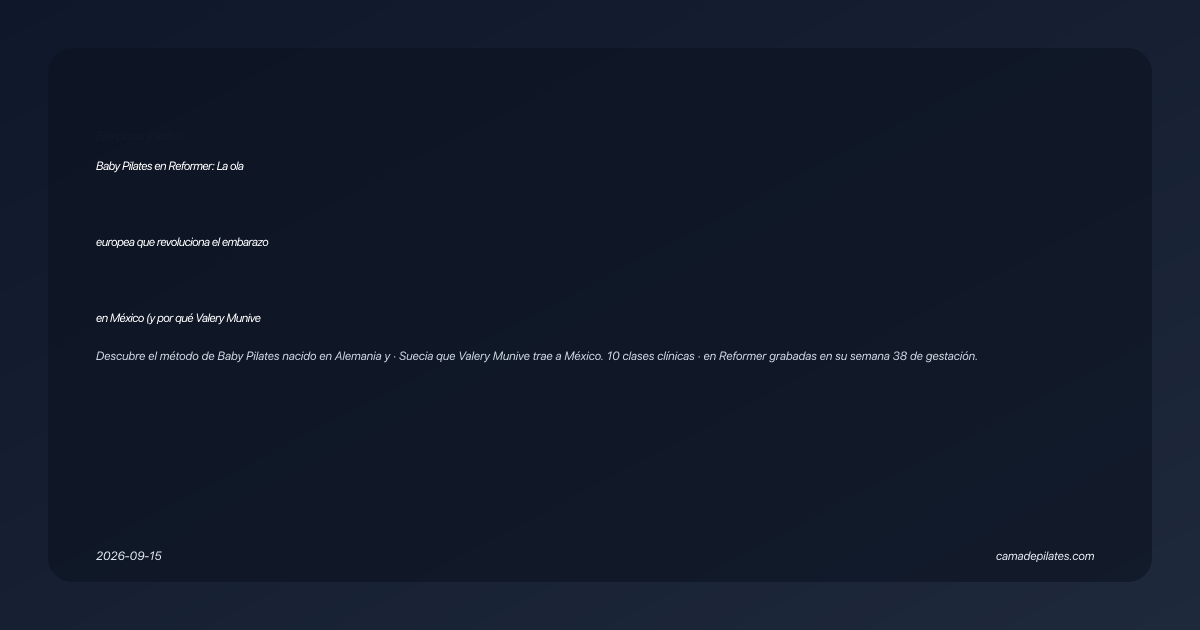
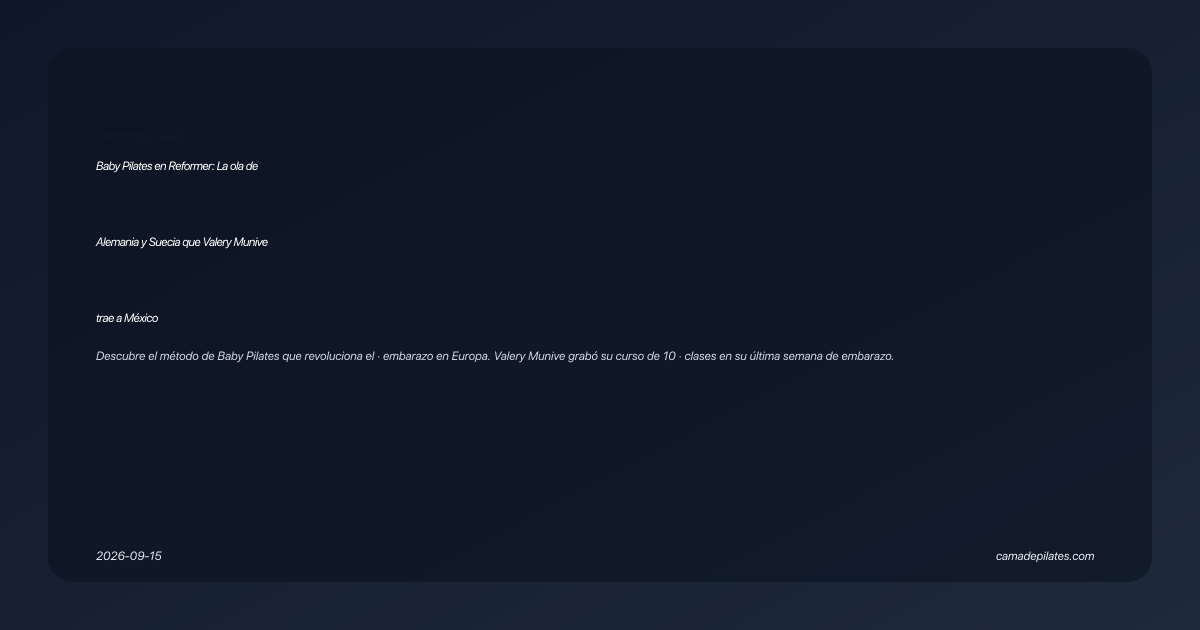
fix(blog): streamline Baby Pilates advertorial and calibrate Mexican market pricing
- Shorten advertorial copy for fast, high-converting reader engagement
- Calibrate Mexican market studio pricing based on actual rates (-/class, ,400-,000/packages)
- Frame  MXN one-time course investment as less than the cost of 2 studio drop-in classes
- Regenerate OG banner and static assets

🤖 Generated with [Claude Code](https://claude.com/claude-code)

Changed region(s): [[0.2467, 0.5429, 0.8017, 0.573], [0.0617, 0.4825, 0.2158, 0.5127], [0.0617, 0.3619, 0.2158, 0.3921]]

diff --git a/src/content/blog/baby-pilates-reformer-embarazo-mexico.md b/src/content/blog/baby-pilates-reformer-embarazo-mexico.md
@@ -1,6 +1,6 @@
 ---
-title: "Baby Pilates en Reformer: La ola europea que revoluciona el embarazo en México (y por qué Valery Munive lo practicó hasta la semana 38)"
-description: "Descubre el método de Baby Pilates nacido en Alemania y Suecia que Valery Munive trae a México. 10 clases clínicas en Reformer grabadas en su semana 38 de gestación."
+title: "Baby Pilates en Reformer: La ola de Alemania y Suecia que Valery Munive trae a México"
+description: "Descubre el método de Baby Pilates que revoluciona el embarazo en Europa. Valery Munive grabó su curso de 10 clases en su última semana de embarazo."
 category: "Ejercicios y salud"
 tags: ["baby pilates", "pilates prenatal", "reformer embarazo", "valery munive", "suelo pelvico", "curso pilates prenatal"]
 publishDate: "2026-09-15"
@@ -10,169 +10,127 @@ featured: true
 heroImage: "/images/blog/baby-pilates-reformer/hero-studio-berlin.webp"
 ---
 
-# Baby Pilates en Reformer: La ola europea que revoluciona el embarazo en México (y por qué Valery Munive lo practicó hasta la semana 38)
+# Baby Pilates en Reformer: La ola de Alemania y Suecia que Valery Munive trae a México
 
-> **Nota editorial de salud:** Este contenido es estrictamente informativo, clínico y vivencial. Cada embarazo es un proceso biológico único. Antes de iniciar cualquier práctica deportiva o programa de movimiento, consulta a tu médico ginecólogo u obstetra de cabecera.
+> **Nota:** Contenido informativo. Consulta siempre con tu ginecólogo antes de iniciar cualquier programa de ejercicio durante el embarazo.
 
-Durante décadas, a las mujeres embarazadas en México y Latinoamérica se les ha repetido la misma advertencia: *"No cargues nada, no te esfuerces, quédate en reposo absoluto y ten mucho cuidado"*. 
+En México, el consejo habitual para las mujeres embarazadas sigue siendo el mismo de hace cincuenta años: *«no te muevas, no cargues nada y quédate en reposo»*.
 
-Sin embargo, en las capitales del bienestar de Europa del Norte —particularmente en **Alemania y Suecia**— el paradigma de la maternidad dio un giro radical hace varios años. En ciudades como Berlín, Múnich y Estocolmo, el embarazo no es tratado como una enfermedad o una etapa de fragilidad pasiva, sino como un acontecimiento fisiológico de alta exigencia atlética. Allí nació lo que hoy se conoce como la revolución del **Baby Pilates & Pilates Prenatal en Reformer**.
+Pero en países como **Alemania y Suecia**, la historia es completamente diferente. 
 
-Hoy, esa metodología de vanguardia llega formalmente a México de la mano de **Valery Munive** (reconocida formadora y Master Trainer de Pilates en México), quien no solo adoptó el método tras vivirlo en carne propia en Alemania, sino que decidió romper todo escepticismo nacional con un acto sin precedentes: **grabar un programa clínico completo de 10 clases en video montada en el Reformer durante su semana 38 de embarazo**, a escasos días de dar a luz.
+Allí, las futuras madres no suspenden su actividad: asisten a estudios especializados en una tendencia en auge llamada **Baby Pilates & Pilates Prenatal en Reformer**. En lugar de reposo pasivo, utilizan la cama de Pilates para descomprimir la columna, activar el suelo pélvico y preparar el cuerpo para el parto con resortes que sostienen el peso del vientre.
 
-Esta es la historia de cómo una experiencia en Europa transformó su visión de la maternidad, por qué el Reformer es la herramienta más segura para proteger tu columna y tu suelo pélvico, y cómo tú también puedes acceder a este acompañamiento clínico desde hoy.
+La instructora mexicana **Valery Munive** vivió esta experiencia de primera mano mientras estaba embarazada en Alemania. Quedó tan sorprendida con los resultados que decidió traer la metodología a México y crear un curso único: **grabado en sus últimas semanas de embarazo**, demostrando frente a la cámara que mantenerse activa y fuerte en el Reformer es completamente posible y beneficioso.
+
+![Estudio de Pilates Reformer con luz natural en Alemania](/images/blog/baby-pilates-reformer/hero-studio-berlin.webp)
+*En Alemania y Suecia, el Reformer es el aliado principal de las futuras madres para eliminar dolores lumbares y preparar el parto.*
 
 ---
 
-## De Berlín a Ciudad de México: El choque cultural que lo cambió todo
+## El descubrimiento en Alemania: Moverse sin dolor
 
-Cuando Valery Munive se enteró de su embarazo, se encontraba en Alemania. Con años de trayectoria certificando a cientos de instructoras de Pilates y conociendo al milímetro la biomecánica corporal, su primera reacción instintiva al ver el panorama prenatal en el norte de Europa fue de genuina curiosidad.
+Como instructora certificada de Pilates con años de experiencia en México, Valery conocía a la perfección la biomecánica corporal. Sin embargo, al quedar embarazada en Alemania, sintió las dudas que cualquier mujer experimenta: *¿es seguro seguir entrenando?*
 
-En Alemania, las matronas certificadas (*Hebammen*) y los ginecólogos no envían a las futuras madres a permanecer sentadas en un sillón durante nueve meses. Por el contrario, prescriben programas especializados de preparación física para el parto (*Geburtsvorbereitung mit Pilates*) y fortalecimiento del suelo pélvico (*Beckenbodentraining*).
+*"En Berlín veía a mujeres en su séptimo y octavo mes sobre el Reformer con una fluidez y tranquilidad asombrosas"*, cuenta Valery. *"Decidí probarlo en mi propio embarazo. La sensación fue inmediata: al acostarme y sentir la asistencia de los resortes, toda la presión en mi espalda baja desapareció. Me sentía ligera, estable y llena de energía"*.
 
-![Estudio boutique de Pilates Reformer en Alemania con luz natural y diseño escandinavo](/images/blog/baby-pilates-reformer/hero-studio-berlin.webp)
-*Los estudios boutique en Alemania y Suecia integran el Reformer desgravitado como la herramienta predilecta para la preparación física y emocional de la mujer gestante.*
+Al volver a México, el contraste fue evidente. Mientras en Europa los médicos y matronas recomiendan el Reformer para evitar la diástasis y la ciática, en México muchas mujeres terminan los nueve meses con dolor lumbar constante y miedo a moverse.
 
-*"Al principio, incluso como instructora, sentí una pizca de reserva"* —recuerda Valery—. *"Veía a mujeres con vientres de 7 y 8 meses deslizarse con total elegancia, fuerza y serenidad sobre camas Reformer. Decidí probarlo yo misma durante mi gestación. La sensación fue indescriptible: en el instante en que mis pies tocaron la barra y los resortes sostuvieron mi peso, sentí cómo toda la compresión de mis vértebras lumbares simplemente desaparecía. No había pesadez, no había dolor ciático, no había hinchazón en los tobillos. Me sentía ligera, conectada con mi bebé y profundamente poderosa"*.
-
-Al regresar a México, el contraste cultural fue doloroso. Familiares, conocidos e incluso algunos profesionales de la salud le sugerían guardar reposo continuo:
-
-> *"La gente en México me decía con angustia: '¡Valery, bájate de esa máquina!', '¿Cómo vas a moverte así estando embarazada?', 'Te vas a lastimar o vas a lastimar al bebé'. Me di cuenta de que existe un vacío de información tremendo en nuestro país. Las mamás mexicanas sufren dolores de espalda insoportables, diástasis de rectos y debilidad de piso pélvico porque nadie les ha enseñado a moverse con biomecánica de precisión."*
-
-Fue en ese momento cuando Valery tomó una decisión rotunda: **esta metodología europea tenía que estar al alcance de cualquier mujer en México**.
+Valery supo que debía cambiar esa narrativa.
 
 <see-also limit="3" />
 
 ---
 
-## Por qué el tapete de piso ya no es suficiente: La ciencia biomecánica del Reformer
+## La prueba en video: Grabando en la última semana de embarazo
 
-Muchas mujeres se preguntan: *¿Por qué hacer Pilates en una cama Reformer en lugar de hacerlo en un tapete de yoga o en el piso?*
+Para demostrar que el método es seguro y accesible, Valery no se limitó a dar consejos teóricos. **Se subió al Reformer en la última semana de su embarazo (Semana 38)** y grabó frente a la cámara las 10 clases prácticas del programa.
 
-La respuesta reside en la física y en las leyes del cambio de masa corporal durante los tres trimestres:
-
-1. **El desplazamiento del centro de gravedad:** A medida que el bebé crece, el peso anterior tira de la pelvis hacia adelante (anteversión pélvica e hiperlordosis). En el piso, los músculos de la espalda baja se ven forzados a cargar toda esa tensión contra la gravedad terrestre pura.
-2. **Los resortes como "segunda musculatura":** En la cama Reformer, los resortes de resistencia progresiva actúan como un soporte elástico externo. En lugar de luchar contra la gravedad, el carro móvil asiste el movimiento, desgravitando la articulación sacroilíaca y las rodillas.
-3. **Erradicación del Síndrome de Compresión de la Vena Cava:** Después de la semana 16 a 20 de gestación, acostarse boca arriba en un piso plano puede comprimir la vena cava inferior debido al peso uterino, provocando mareos, hipotensión y disminución del flujo de oxígeno maternofetal. En el Reformer, gracias al uso del *Box* y las cuñas posturales a 30° y 45°, la mamá trabaja en ángulos elevados con absoluta seguridad cardiovascular.
-4. **Activación del transverso abdominal sin diástasis:** Los tradicionales abdominales de piso flexionan la columna y empujan las vísceras hacia afuera, desgarrando la línea alba. En el Reformer, el trabajo con correas activa el transverso profundo como un corsé biológico natural, protegiendo los rectos abdominales de separaciones patológicas.
-
----
-
-## La prueba definitiva: Grabar en la Semana 38 de embarazo
-
-Las palabras convencen, pero el testimonio visual arrastra. Valery sabía que para derribar los mitos arraigados en la sociedad mexicana no bastaba con escribir un artículo o dar una plática teórica. Tenía que demostrarlo donde importa: **frente a la cámara, en su propio cuerpo, a término**.
-
-Por eso, en su **semana 38 de gestación** —un momento en el que la mayoría de las mujeres apenas pueden atarse las agujetas de los zapatos—, Valery ingresó al estudio y grabó de principio a fin las 10 clases clínicas en video que integran el curso.
-
-<div style="display: grid; grid-template-columns: repeat(auto-fit, minmax(280px, 1fr)); gap: 1.5rem; margin: 2rem 0;">
-  <div style="background: #FAF8F5; border: 1px solid rgba(42,38,36,0.1); border-radius: 4px; overflow: hidden; padding: 1rem; text-align: center;">
-    <img src="/images/blog/baby-pilates-reformer/valery-munive-reformer-embarazo-1.webp" alt="Valery Munive en extensión de cadera en Reformer en su semana 38 de embarazo" style="width: 100%; height: auto; border-radius: 2px; object-fit: cover; max-height: 480px;" />
-    <p style="font-size: 0.85rem; color: #5D5550; margin-top: 0.75rem; font-style: italic; line-height: 1.4;">
-      <strong>Semana 38: Estabilidad y apertura pélvica.</strong> Valery demuestra cómo la resistencia elástica del Reformer permite elongar los flexores de la cadera y descomprimir el sacro sin generar presión abdominal ni fatiga innecesaria.
+<div style="display: grid; grid-template-columns: repeat(auto-fit, minmax(260px, 1fr)); gap: 1.25rem; margin: 2rem 0;">
+  <div style="background: #FAF8F5; border: 1px solid rgba(42,38,36,0.1); border-radius: 6px; padding: 0.75rem; text-align: center;">
+    <img src="/images/blog/baby-pilates-reformer/valery-munive-reformer-embarazo-1.webp" alt="Valery Munive en extensión de cadera en Reformer en su semana 38 de embarazo" style="width: 100%; height: auto; border-radius: 4px; object-fit: cover;" />
+    <p style="font-size: 0.85rem; color: #5D5550; margin-top: 0.6rem; font-style: italic;">
+      <strong>Semana 38:</strong> Apertura de cadera y alivio lumbar con asistencia de resortes, sin impacto articular.
     </p>
   </div>
-  <div style="background: #FAF8F5; border: 1px solid rgba(42,38,36,0.1); border-radius: 4px; overflow: hidden; padding: 1rem; text-align: center;">
-    <img src="/images/blog/baby-pilates-reformer/valery-munive-reformer-semana-38.webp" alt="Valery Munive sonriendo en el Reformer durante su embarazo en México" style="width: 100%; height: auto; border-radius: 2px; object-fit: cover; max-height: 480px;" />
-    <p style="font-size: 0.85rem; color: #5D5550; margin-top: 0.75rem; font-style: italic; line-height: 1.4;">
-      <strong>Conexión madre-bebé y alineación.</strong> En la fase final del tercer trimestre, el trabajo de respiración diafragmática y postura sentada prepara el canal de parto y mantiene la vitalidad y la serenidad mental.
+  <div style="background: #FAF8F5; border: 1px solid rgba(42,38,36,0.1); border-radius: 6px; padding: 0.75rem; text-align: center;">
+    <img src="/images/blog/baby-pilates-reformer/valery-munive-reformer-semana-38.webp" alt="Valery Munive en el Reformer durante su embarazo en México" style="width: 100%; height: auto; border-radius: 4px; object-fit: cover;" />
+    <p style="font-size: 0.85rem; color: #5D5550; margin-top: 0.6rem; font-style: italic;">
+      <strong>Conexión y respiración:</strong> Postura erguida y respiración diafragmática para preparar el canal de parto.
     </p>
   </div>
 </div>
 
-*"Quería que cualquier mujer embarazada que viera este curso pensara: 'Si ella puede moverse con esa calma, esa fuerza y esa sonrisa en su semana 38, yo puedo hacerlo en mi semana 15, 24 o 32'. El movimiento guiado no pone en riesgo a tu bebé; le da oxígeno, espacio y a ti te devuelve el control de tu cuerpo"* —afirma Valery.
+*"Quería que cualquier mujer embarazada pudiera ver que si yo podía moverme con calma y seguridad en mi última semana de gestación, ella también puede hacerlo en cualquier etapa de su embarazo con las adaptaciones correctas"*, explica.
+
+### ¿Por qué el Reformer supera al piso para embarazadas?
+- **Soporte desgravitado:** Los resortes cargan parte de tu peso, quitando tensión de la pelvis y las rodillas.
+- **Sin posiciones peligrosas:** Con el *Box* y respaldos inclinados, se evita la posición boca arriba plana que puede comprimir la vena cava tras el primer trimestre.
+- **Piso pélvico fuerte:** Ejercicios específicos para tonificar los músculos del parto y prevenir incontinencia o desgarros.
 
 ---
 
-## ¿Qué incluye el curso BABY PILATES EL CLUB MATERNO?
+## Curso Online: BABY PILATES EL CLUB MATERNO
 
-El curso digital está alojado en el campus virtual de alta fidelidad **Whop**, diseñado para que lo reproduzcas desde cualquier dispositivo: tu teléfono móvil, tu tablet frente al Reformer, o la pantalla de tu sala.
+El curso reúne **10 clases en video HD** con progresiones trimestrales, explicaciones paso a paso y adaptaciones para cada etapa del embarazo:
 
-El programa está compuesto por **10 clases completas en video en alta definición**, guiadas paso a paso con indicaciones anatómicas precisas, adaptaciones para cada trimestre y modificaciones en caso de sensibilidad pélvica:
-
-| Clase | Módulo & Enfoque Clínico | Objetivo Principal |
-| :--- | :--- | :--- |
-| **Clase 1** | **Conexión Inicial y Descompresión Lumbar** | Liberación de presión en vértebras L4-S1 y reprogramación postural. |
-| **Clase 2** | **Suelo Pélvico Consciente (Método Nórdico)** | Activación y relajación del esfínter pélvico para prevenir incontinencia y desgarros. |
-| **Clase 3** | **Movilidad Sacroilíaca y Apertura de Caderas** | Alivio del dolor ciático y preparación de los ligamentos de la pelvis. |
-| **Clase 4** | **Fuerza Segura del Core (Sin Diástasis)** | Fortalecimiento del transverso abdominal mediante el Box y cuñas inclinadas. |
-| **Clase 5** | **Estabilidad Escapular y Brazos Fuertes** | Acondicionamiento de hombros y parte superior para la lactancia y el porteo. |
-| **Clase 6** | **Piernas Ligeras y Glúteos sin Impacto** | Activación del retorno venoso para evitar várices, calambres y tobillos hinchados. |
-| **Clase 7** | **Biomecánica de Respiración para el Parto** | Dominio del diafragma y exhalación tónica para la fase de dilatación y expulsivo. |
-| **Clase 8** | **Rutina Exclusiva para el Tercer Trimestre** | Secuencias suaves adaptadas para semanas 28 a 38 con máxima comodidad. |
-| **Clase 9** | **Drenaje Linfático y Liberación de Tensión** | Movilidad asistida con correas para descargar el peso acumulado del día. |
-| **Clase 10** | **Vinculación Emocional Madre-Bebé en Reformer** | Sesión meditativa somática para conectar profundamente con el latido de tu hijo. |
-
-Además de las 10 clases, obtienes acceso permanente al canal de consultas de la comunidad de **Edelweiss Pilates**, donde podrás resolver dudas sobre resortes, accesorios y posturas.
+1. **Descompresión lumbar y postura:** Libera la carga en la espalda baja.
+2. **Suelo pélvico consciente:** El método nórdico para conectar sin pujar.
+3. **Apertura de caderas:** Alivio de ciática y flexibilidad pélvica.
+4. **Core seguro en cuña:** Trabajo del transverso abdominal sin riesgo de diástasis.
+5. **Espalda y brazos:** Fuerza superior para cargar a tu bebé sin fatiga.
+6. **Piernas ligeras:** Activación circulatoria contra calambres y retención de líquidos.
+7. **Respiración para el parto:** Manejo del diafragma para el día del nacimiento.
+8. **Especial tercer trimestre:** Movimientos suaves para semanas avanzadas.
+9. **Drenaje linfático en carro:** Descongestión de pies cansados.
+10. **Conexión somática:** Sesión guiada de vinculación madre-bebé.
 
 ---
 
-## La inversión más accesible para tu maternidad: Solo $600 MXN
+## Menos de lo que cuestan 2 clases en un estudio
 
-En México, una sola sesión privada de Pilates prenatal en zonas como Polanco (CDMX), San Pedro Garza García (Monterrey) o Providencia (Guadalajara) tiene un costo habitual de entre **$800 y $1,200 MXN por hora**.
+En México, una sola clase grupal de Pilates en estudio cuesta entre **$330 y $400 MXN**, y un paquete mensual de 4 a 8 sesiones ronda entre **$1,400 y $3,000 MXN**. Además, muchos estudios ni siquiera aceptan mujeres embarazadas en sus grupos habituales por falta de certificación prenatal.
 
-El objetivo de Valery Munive y CAMA Pilates al democratizar esta metodología europea fue derribar la barrera económica:
+Por solo **$600 MXN (pago único)**, obtienes el curso completo de 10 clases con acceso ilimitado para siempre en el campus virtual **Whop**, para entrenar a tu propio ritmo desde tu celular, tablet o computadora.
 
-- **10 clases completas en video** diseñadas y ejecutadas por una Master Trainer internacional.
-- **Acceso vitalicio:** Las puedes repetir cuantas veces quieras durante este embarazo y en futuros embarazos.
-- **Sin membresías forzosas ni mensualidades recurrentes.**
-- **Precio total:** **$600 MXN (Pago único)**.
-
-<div style="background: linear-gradient(135deg, #FAF8F5 0%, #F3EFEA 100%); border: 1px solid rgba(42,38,36,0.15); border-radius: 8px; padding: 2.5rem; text-align: center; margin: 3rem 0; box-shadow: 0 4px 20px rgba(0,0,0,0.04);">
-  <span style="display: inline-block; background: #3E2723; color: #FFFFFF; font-size: 0.75rem; text-transform: uppercase; letter-spacing: 0.15em; font-weight: 600; padding: 0.35rem 1rem; border-radius: 50px; margin-bottom: 1rem;">
-    Programa Oficial Whop · Acceso Inmediato
+<div style="background: #FAF8F5; border: 1px solid rgba(42,38,36,0.15); border-radius: 8px; padding: 2rem; text-align: center; margin: 2.5rem 0;">
+  <span style="display: inline-block; background: #2A2624; color: #FFFFFF; font-size: 0.75rem; text-transform: uppercase; letter-spacing: 0.12em; font-weight: 600; padding: 0.3rem 0.85rem; border-radius: 50px; margin-bottom: 0.75rem;">
+    Acceso Inmediato en Whop
   </span>
-  <h3 style="font-family: Georgia, serif; font-style: italic; font-size: 2rem; color: #2A2624; margin-bottom: 0.75rem;">
+  <h3 style="font-family: Georgia, serif; font-style: italic; font-size: 1.75rem; color: #2A2624; margin-bottom: 0.5rem;">
     BABY PILATES EL CLUB MATERNO
   </h3>
-  <p style="color: #5D5550; max-width: 550px; margin: 0 auto 1.5rem; font-size: 1.05rem; line-height: 1.6;">
-    Aprende el método europeo guiado por Valery Munive en su semana 38 de gestación. 10 clases clínicas para proteger tu espalda, fortalecer tu suelo pélvico y llegar al parto con confianza.
+  <p style="color: #5D5550; max-width: 480px; margin: 0 auto 1.25rem; font-size: 0.95rem; line-height: 1.5;">
+    10 clases clínicas en Reformer guiadas por Valery Munive en su semana 38. Aprende el método europeo para cuidar tu espalda y tu suelo pélvico.
   </p>
-  <div style="margin-bottom: 1.5rem;">
-    <span style="font-size: 1.25rem; text-decoration: line-through; color: #8C827A; margin-right: 0.75rem;">$1,800 MXN</span>
-    <span style="font-size: 2.5rem; font-weight: 700; color: #2A2624; font-family: Georgia, serif;">$600 MXN</span>
-    <span style="display: block; font-size: 0.85rem; color: #5D5550; text-transform: uppercase; letter-spacing: 0.1em; margin-top: 0.25rem;">Pago único · Acceso ilimitado de por vida</span>
+  <div style="margin-bottom: 1.25rem;">
+    <span style="font-size: 2.25rem; font-weight: 700; color: #2A2624; font-family: Georgia, serif;">$600 MXN</span>
+    <span style="display: block; font-size: 0.8rem; color: #7A726D; text-transform: uppercase; letter-spacing: 0.08em; margin-top: 0.2rem;">Pago único · Acceso de por vida</span>
   </div>
   <a 
     href="https://whop.com/checkout/plan_ZFKdQDyegZt7c/?session=chs_WnYQXuLfWCesEv" 
     target="_blank" 
     rel="noopener noreferrer"
-    style="display: inline-block; background: #2A2624; color: #FFFFFF; font-family: -apple-system, BlinkMacSystemFont, 'Segoe UI', Roboto, sans-serif; font-size: 0.95rem; font-weight: 600; text-transform: uppercase; letter-spacing: 0.12em; padding: 1rem 2.5rem; border-radius: 4px; text-decoration: none; transition: all 0.3s ease; box-shadow: 0 4px 14px rgba(42,38,36,0.25);"
+    style="display: inline-block; background: #2A2624; color: #FFFFFF; font-size: 0.9rem; font-weight: 600; text-transform: uppercase; letter-spacing: 0.1em; padding: 0.85rem 2rem; border-radius: 4px; text-decoration: none;"
   >
     Comenzar Mi Curso Ahora ($600 MXN) →
   </a>
-  <p style="font-size: 0.8rem; color: #8C827A; margin-top: 1rem;">
-    🔒 Pago seguro encriptado procesado por Whop · Acceso instantáneo en iOS, Android y Navegador Web
+  <p style="font-size: 0.75rem; color: #8C827A; margin-top: 0.85rem;">
+    Pago seguro encriptado procesado por Whop · Acceso inmediato en iOS, Android y Navegador
   </p>
 </div>
 
 ---
 
-## Testimonio de Valery: Un mensaje para las futuras madres mexicanas
+## FAQ: Preguntas Frecuentes
 
-*"El embarazo es una de las mayores transformaciones corporales y emocionales que una mujer puede experimentar. No permitas que el miedo infundado o las opiniones del pasado te hagan sentir desconectada de tu propio poder físico."*
+### ¿A partir de qué semana puedo iniciar el curso?
+La mayoría de las mamás inician en el segundo trimestre (semana 13-14), cuando disminuyen las náuseas del inicio. Si ya practicabas Pilates antes del embarazo y tu médico lo autoriza, puedes comenzar con las pautas de alineación y respiración desde el primer trimestre.
 
-*"Cuando una mujer se sube al Reformer y siente cómo la máquina la abraza y la sostiene, el miedo se transforma en placer, en energía y en serenidad. Te mereces vivir un embarazo sin dolor lumbar constante, sintiéndote ágil y sabiendo que estás preparando el camino para que tu bebé nazca en el entorno más armónico posible."*
+### ¿Qué equipo necesito para hacer las clases?
+Las rutinas están diseñadas para ejecutarse en una cama de Pilates Reformer estándar con accesorios básicos como el *Box* (cajón) y las correas. Si no tienes Reformer en casa, puedes seguir las sesiones en cualquier estudio que cuente con equipo o adaptar las pautas posturales.
 
-*"Te espero en la primera clase dentro del campus virtual Whop."*
+### ¿Es seguro hacer Pilates hasta la última semana como Valery?
+Sí, con autorización de tu ginecólogo y adaptando los ejercicios. En las semanas finales no se realizan esfuerzos de intensidad ni posturas supinas planas; el enfoque es la apertura pélvica asistida por resortes y la respiración para el parto.
 
-**— Valery Munive**  
-*Master Trainer de Pilates Reformer · Creadora del Método Baby Pilates en México*
-
----
-
-## FAQ: Preguntas Frecuentes sobre Baby Pilates en Reformer
-
-### ¿A partir de qué semana de embarazo puedo comenzar el curso?
-La mayoría de las mujeres inician el programa a partir del segundo trimestre (semana 13-14), momento en el cual las náuseas y el cansancio inicial suelen remitir. No obstante, si ya practicabas Pilates antes del embarazo y cuentas con la autorización de tu ginecólogo, puedes realizar las sesiones de respiración y alineación postural desde el primer trimestre. El curso acompaña de manera progresiva hasta la semana 38 y 39 inclusive.
-
-### ¿Qué equipo necesito para seguir las clases?
-El curso está diseñado para practicarse en una cama de Pilates Reformer (ya sea en tu casa si cuentas con un equipo particular o en cualquier estudio al que asistas). Las adaptaciones utilizan accesorios estándar como el *Box* (cajón) y las correas de extensión. También puedes aprovechar las explicaciones de biomecánica postural y respiración para tus rutinas diarias de movilidad fuera del carro.
-
-### ¿Es seguro hacer Pilates en la semana 38 como lo hizo Valery?
-Sí, siempre y cuando no existan contraindicaciones médicas obstétricas (como placenta previa o preeclampsia) y el ejercicio esté estrictamente adaptado a la biomecánica de la semana 38. A término, se eliminan los esfuerzos de intensidad abdominal y las posiciones supinas planas, priorizando la apertura pélvica asistida por resortes, la descarga de la pelvis y la respiración diafragmática preparatoria para el parto.
-
-### ¿Cómo recibo el acceso al curso tras pagar en Whop?
-El acceso es automático e instantáneo. Al completar tu pago de $600 MXN en el checkout oficial de Whop, recibirás un correo con tus credenciales para ingresar al campus virtual *BABY PILATES EL CLUB MATERNO*. Puedes acceder desde cualquier navegador web o mediante la aplicación de Whop en tu celular o tablet.
-
-### ¿El pago de $600 MXN es mensual o de una sola vez?
-Es un **pago único de $600 MXN**. No es una suscripción ni tendrás cobros recurrentes en tu tarjeta. Una vez adquirido, conservas el acceso para siempre, permitiéndote retomar las clases a tu propio ritmo e incluso reutilizarlas en tus siguientes embarazos o para tu recuperación postparto.
+### ¿El pago de $600 MXN es mensual o único?
+Es un **pago único de $600 MXN**. No hay mensualidades ni cargos automáticos posteriores. Tu acceso queda guardado en tu cuenta de Whop para siempre.

diff --git a/blog-planning/research/baby-pilates-reformer-embarazo-mexico.md b/blog-planning/research/baby-pilates-reformer-embarazo-mexico.md
@@ -70,6 +70,6 @@ En Alemania y los países nórdicos (Suecia, Dinamarca), el embarazo no se conci
 4. **Valery Munive en primera persona:** "Estaba embarazada en Alemania y lo probé por primera vez".
 5. **La prueba irrefutable (Semana 38):** Galería y análisis fotográfico de Valery entrenando a término con fotos reales en fucsia.
 6. **Desglose de los 10 módulos del curso:** Qué incluye cada clase y cómo acompaña cada etapa.
-7. **Por qué $600 MXN es una decisión obvia:** Comparativa con una sola consulta o clase privada en Polanco o San Pedro ($800 - $1,200 MXN).
+7. **Por qué $600 MXN es una decisión obvia:** Comparativa con el mercado mexicano (clase individual en estudio de $330 a $400 MXN, o paquetes de $1,400 a $3,000 MXN).
 8. **Llamado a la acción (CTA Whop):** Botón directo al checkout seguro.
-9. **Preguntas Frecuentes (FAQ):** 5 preguntas clave con respuestas rigurosas para generar datos estructurados JSON-LD.
+9. **Preguntas Frecuentes (FAQ):** 4 preguntas clave con respuestas rigurosas para generar datos estructurados JSON-LD.
